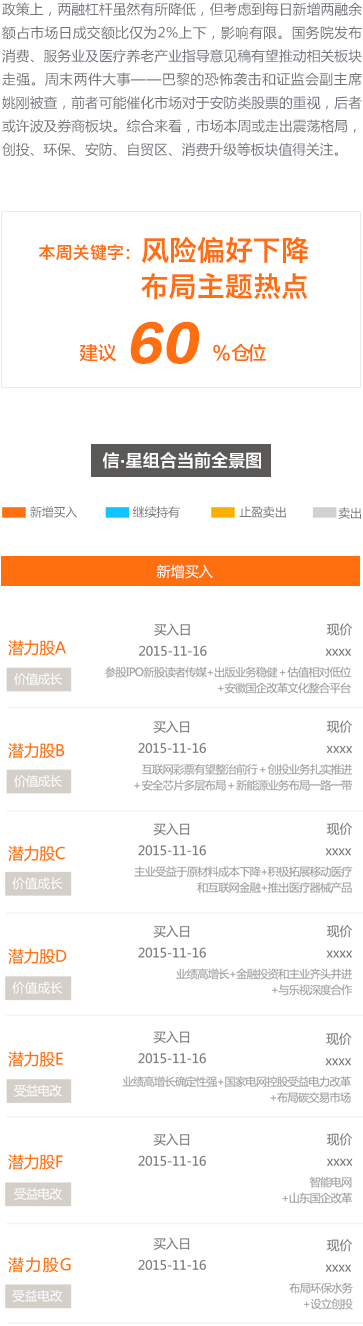
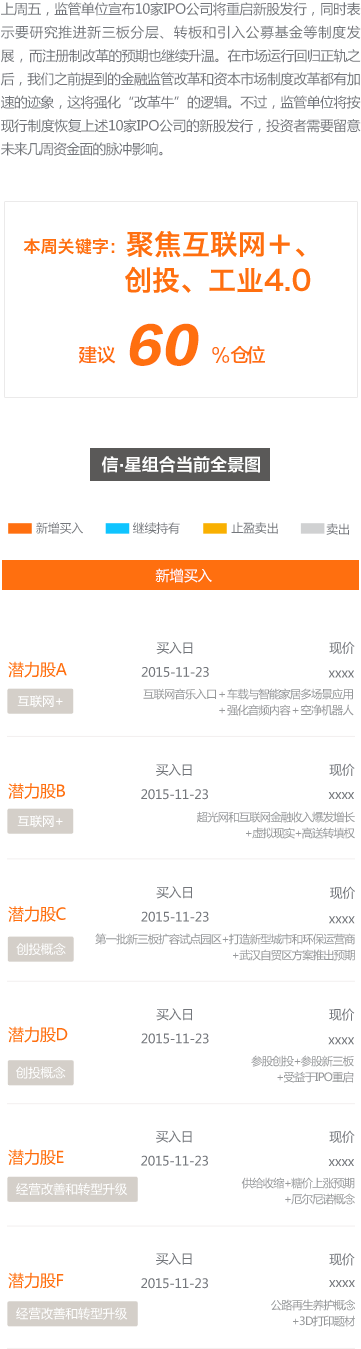
update to 2015-11-23

diff --git a/ft.html b/ft.html
@@ -35,13 +35,13 @@ body{background-color: white; font-family: "微软雅黑";}
 .ft-xtg-pic{margin-left: 20px;}
 .ft-xtg-sub, .ft-claim-sub{color: white; line-height: 32px;}
 .ft-xtg-sub{font-size:27px; padding: 27px 0;}
-.ft-xtg-time{padding:6px 0 0 82px;}
+.ft-xtg-time{padding:6px 0 0 22px;}
 .ft-head-bg, .ft-footer{background-color: #3d3d3d;width:100%;}
 .ft-xet-opinion{color:white; height:98px; line-height:98px;}
 .ft-xet-title{font-size: 16px;color: #ff6f0f;padding-bottom:14px;}
 .ft-xet-text{font-size:14px;color:#73767b;padding-bottom:15px;}
 .ft-xet-cont{margin:50px 0 45px;}
-.ft-xet-pic-mid{margin:0 28px;}
+.ft-xet-pic-mid{margin:0 37px 0 34px;}
 .ft-claim{background-color: #3d3d3d; color: white; font-size: 24px;line-height: 36px; padding:19px 0 24px;}
 .ft-claim-sub{line-height:36px;}
 .ft-extend{background: #ff6f0f; padding:40px 0 75px;width:100%;}
@@ -119,7 +119,7 @@ body{background-color: white; font-family: "微软雅黑";}
 	<div class="ft-wrap clear">
 		<img src="images/ft-xet-icon.png" class="fl">
 		<div class="ft-xet-opinion">
-			<p class="font-26">&nbsp;&nbsp;市场面临<span class="font-32">考验</span>&nbsp;&nbsp;主题热点<span class="font-32">或能避风</span><span class="font-19 ft-xtg-time">信&nbsp;·&nbsp;投顾【 第31期，11.16-11.22 】周观点</span>
+			<p class="font-26">&nbsp;&nbsp;资本市场<span class="font-32">改革提速</span>&nbsp;&nbsp;热点纷呈<span class="font-32">聚焦成长</span><span class="font-19 ft-xtg-time">信&nbsp;·&nbsp;投顾【 第32期，11.23-11.29 】周观点</span>
 			</p>
 		</div>
 	</div>
